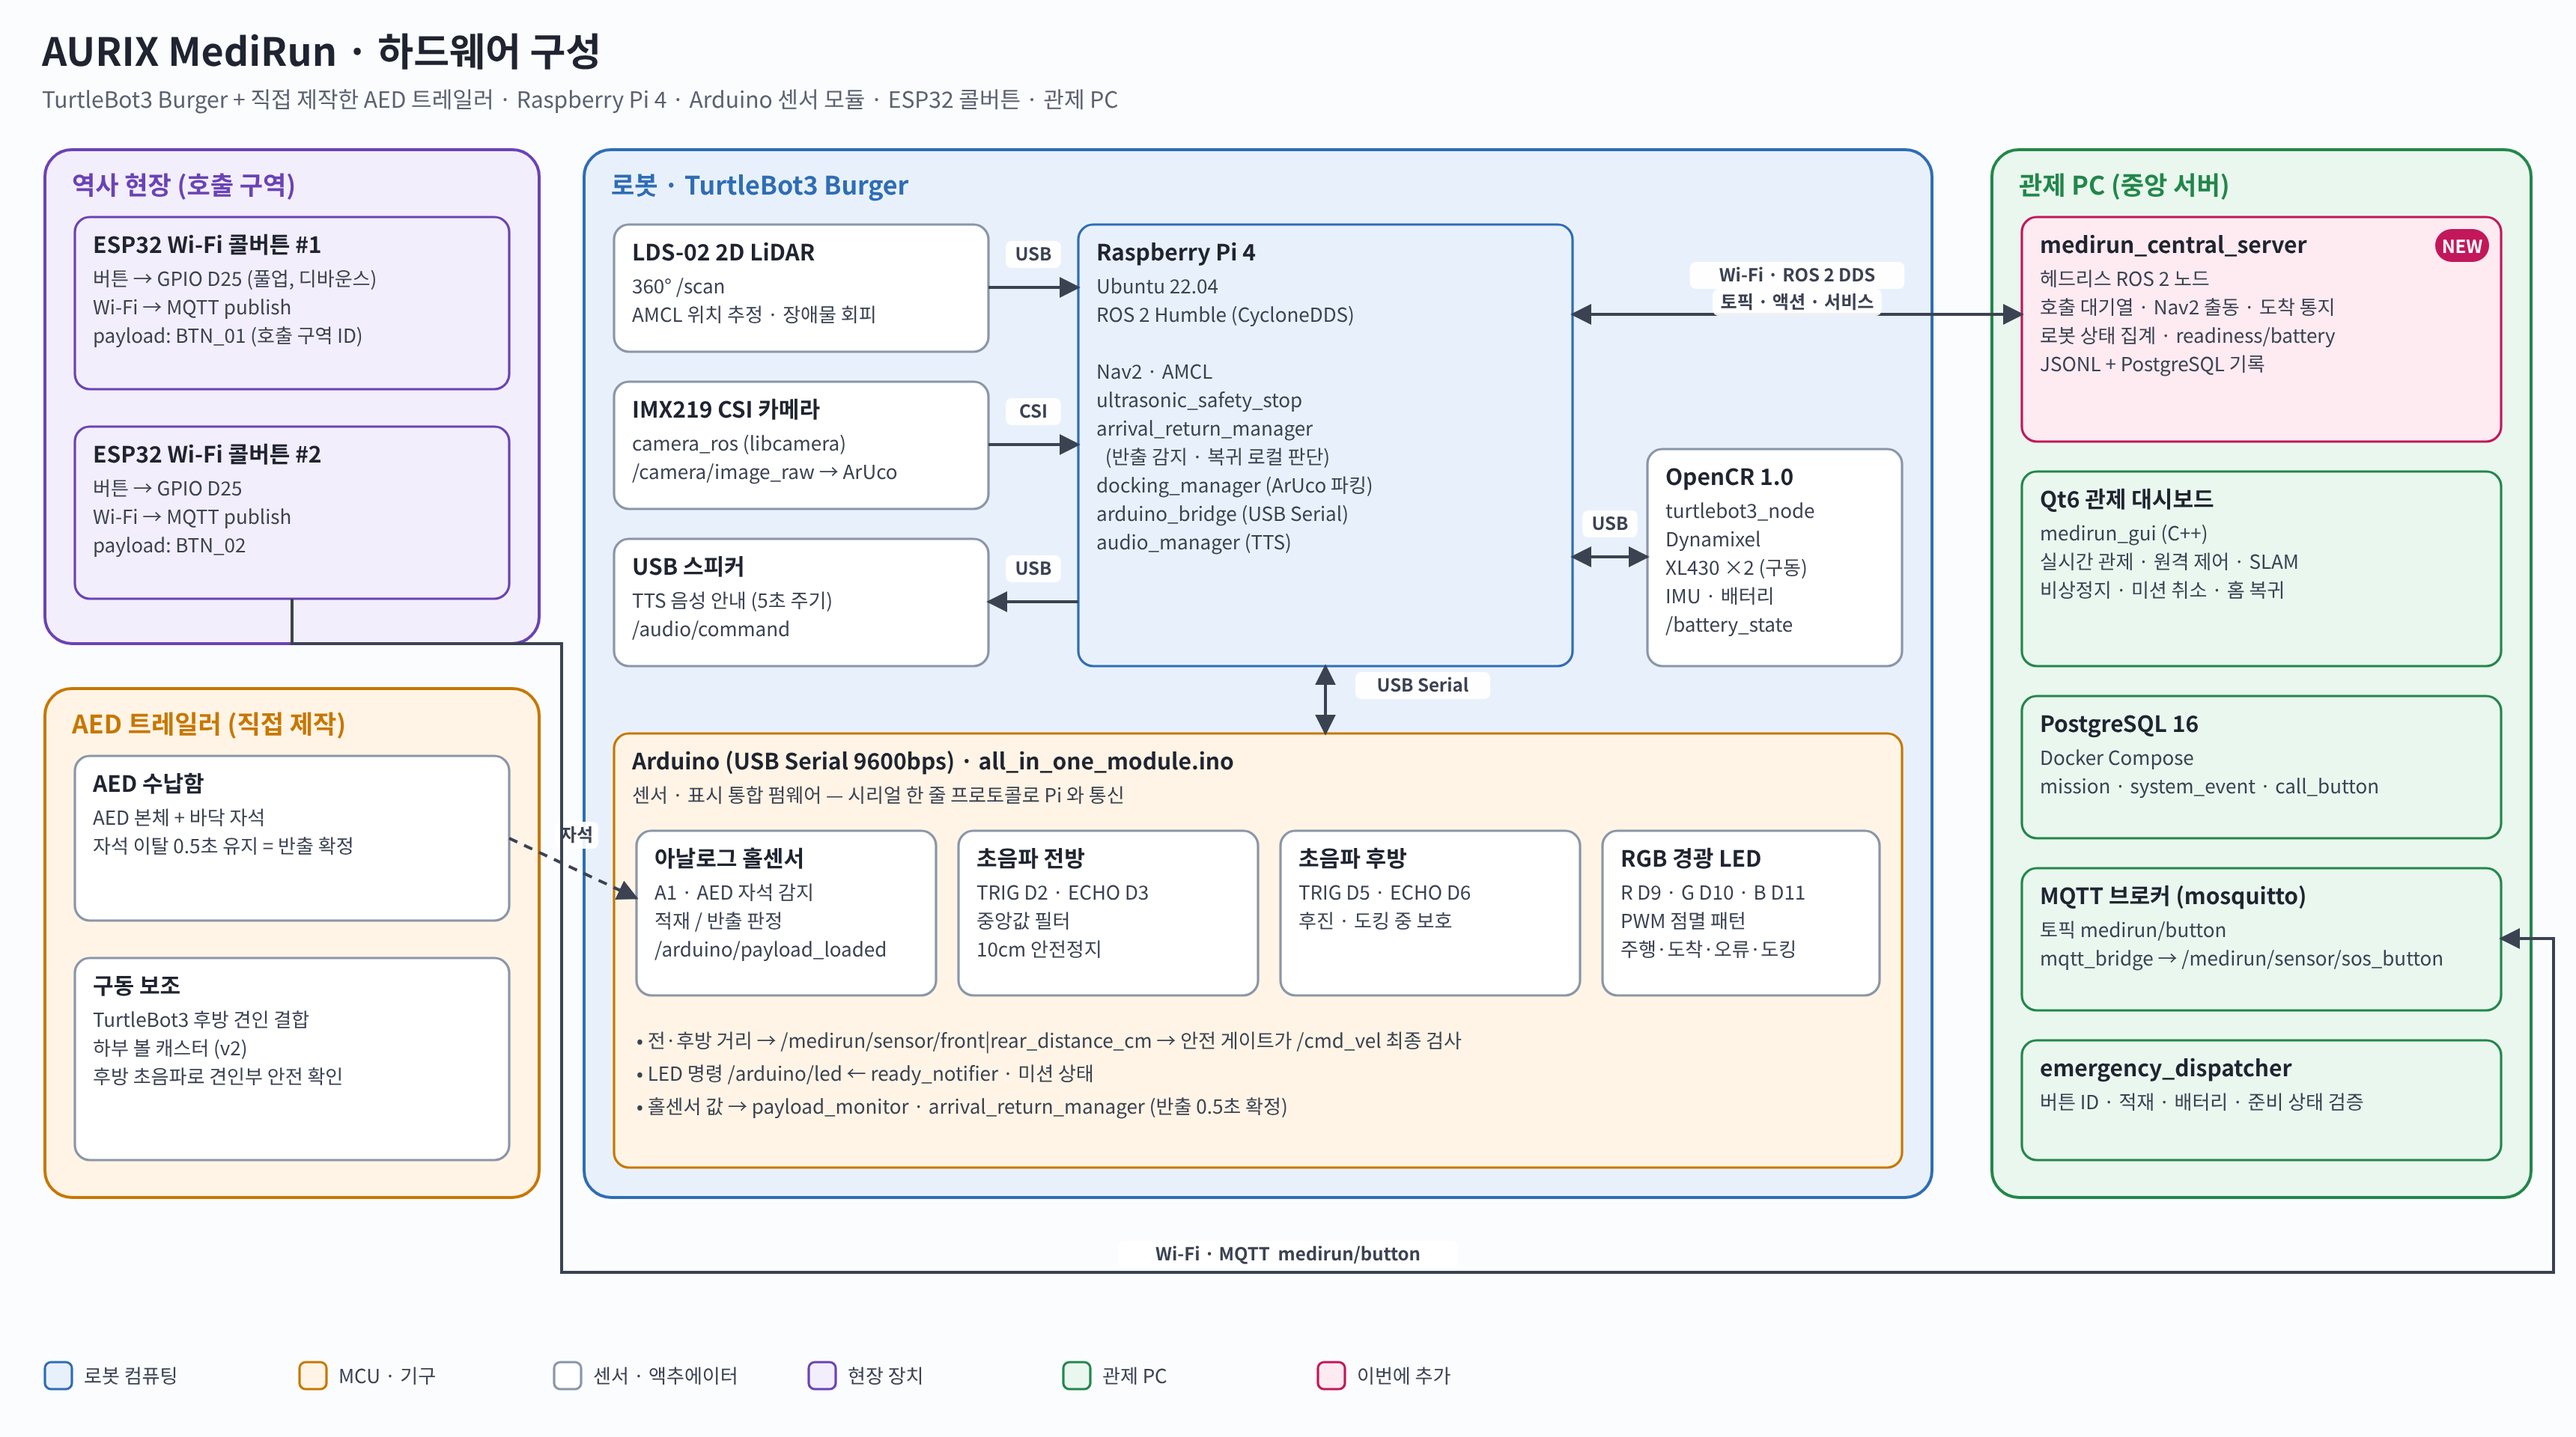
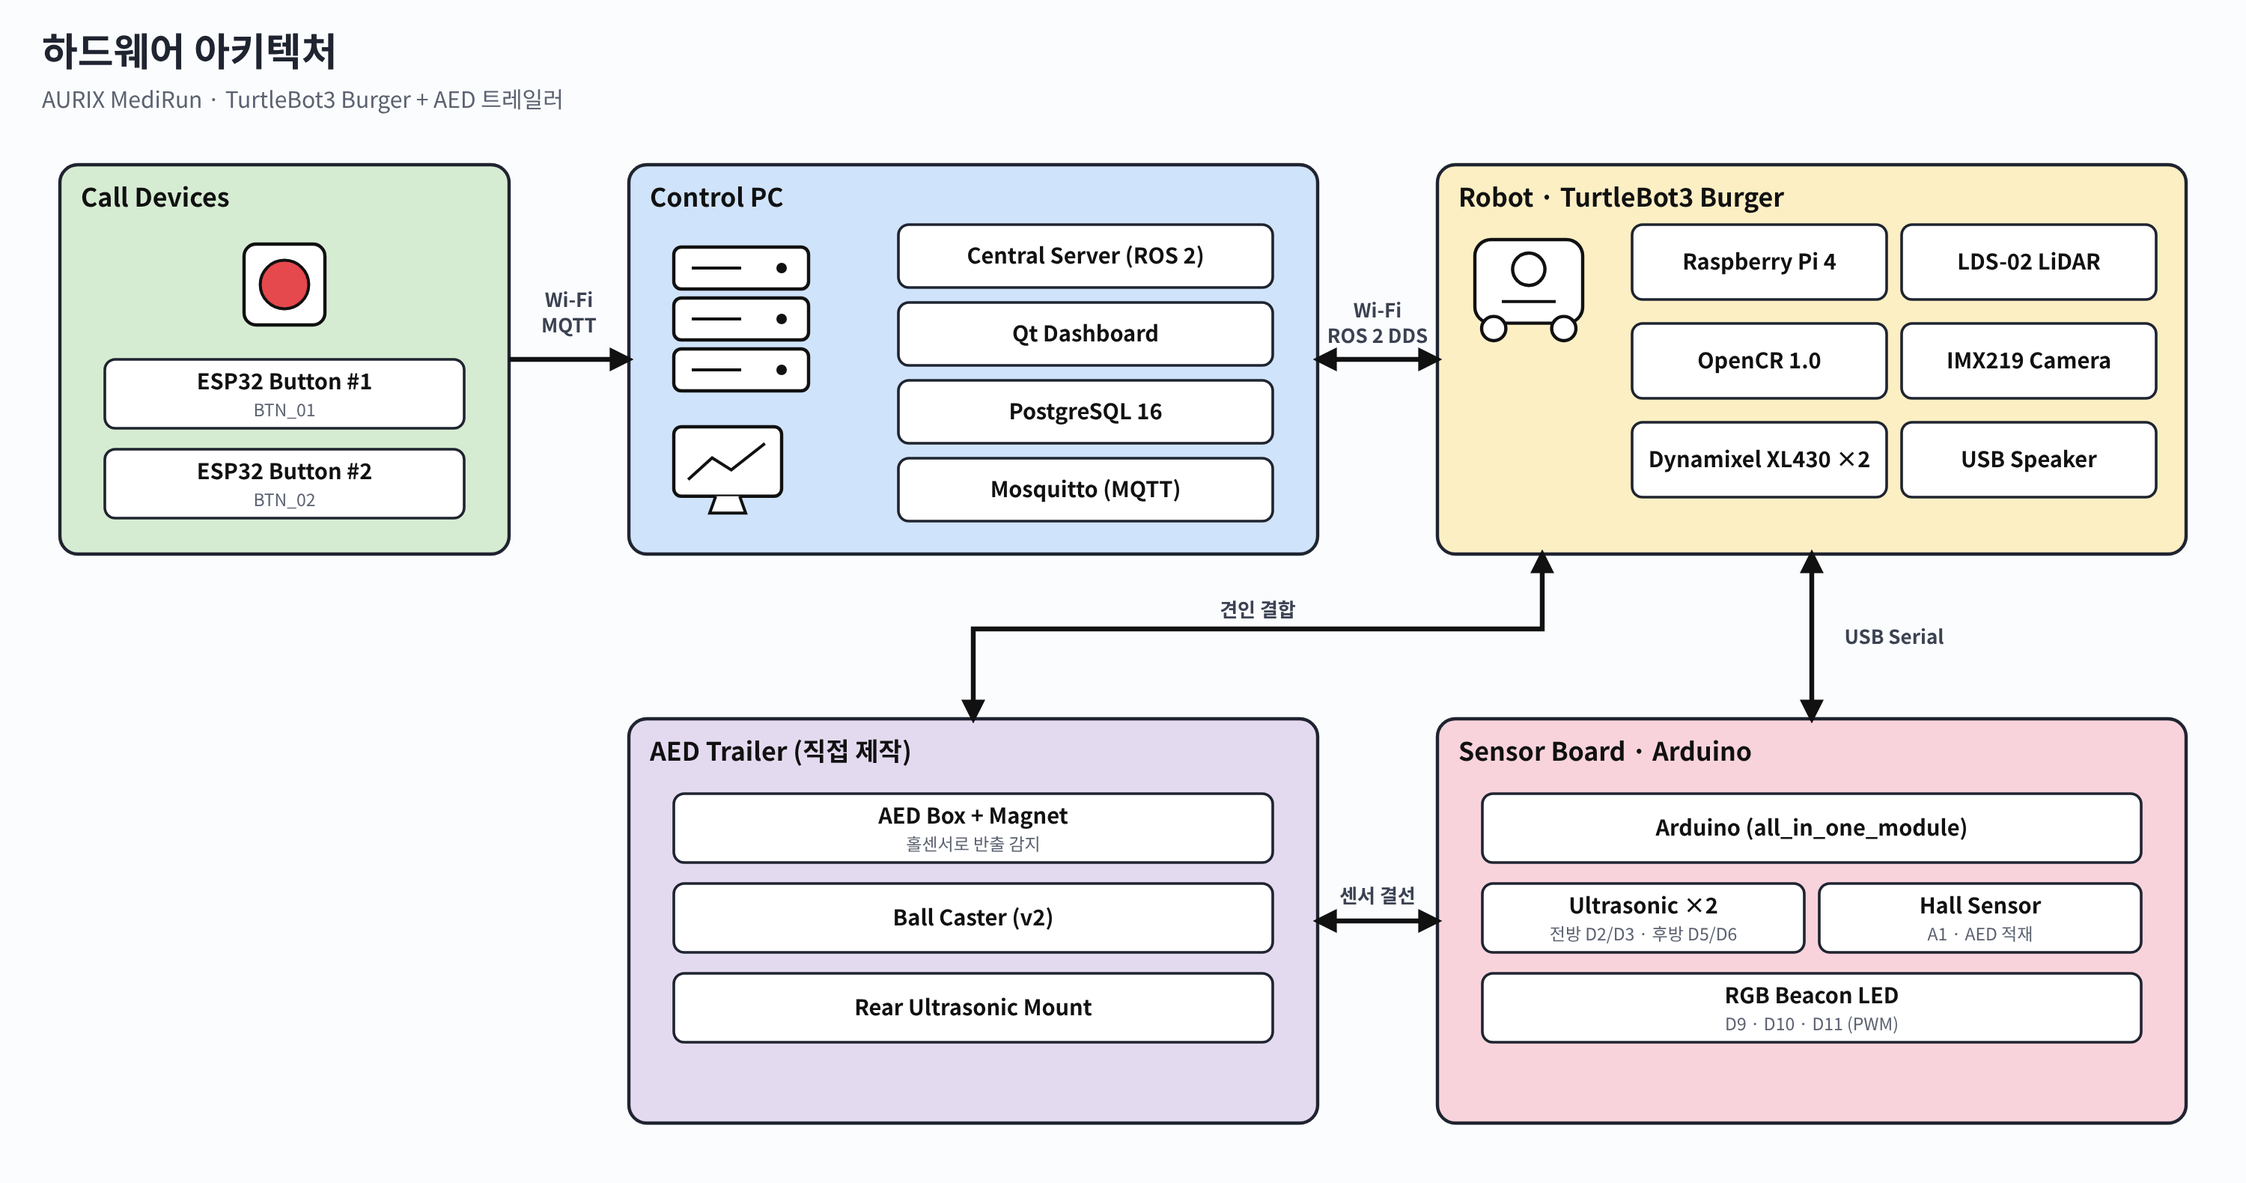
docs: 시스템 아키텍처를 하드웨어·소프트웨어로 분리

diff --git a/README.md b/README.md
@@ -293,8 +293,17 @@
 ### 소프트웨어 아키텍처
 
 <p align="center">
-  <img src="docs/images/architecture.png" alt="MediRun 시스템 아키텍처" width="85%" />
+  <img src="docs/images/software_architecture.png" alt="MediRun 소프트웨어 아키텍처" width="100%" />
 </p>
+
+<details>
+<summary><b>기존 시스템 구성도</b></summary>
+
+<p align="center">
+  <img src="docs/images/architecture.png" alt="MediRun 시스템 아키텍처 (기존)" width="85%" />
+</p>
+
+</details>
 
 - **현장 입력**: 역사 안 ESP32 콜버튼이 MQTT로 호출을 보내면 `mqtt_bridge`가 버튼 ID를 ROS 2 토픽으로 바꾸고, `emergency_dispatcher`가 출동 조건을 검사합니다.
 - **로봇(Raspberry Pi 4 + TurtleBot3)**: 아두이노 센서(초음파·홀센서·LED)를 USB Serial로 받고, Nav2·AMCL이 주행하며, 초음파 안전 게이트와 `safety_manager`가 모든 속도 명령을 마지막으로 검사한 뒤 `/cmd_vel`을 내보냅니다.
